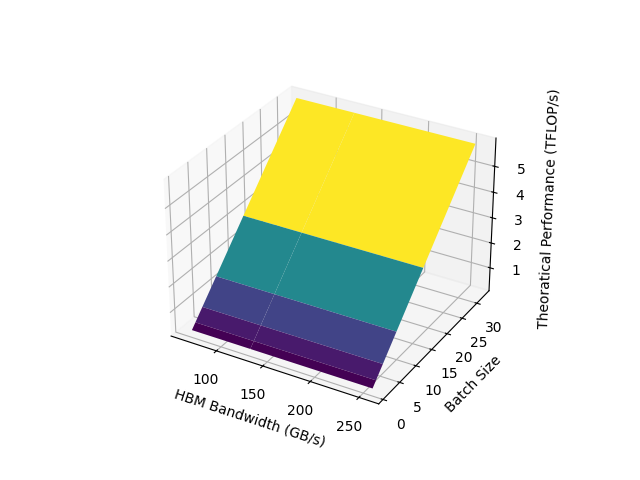
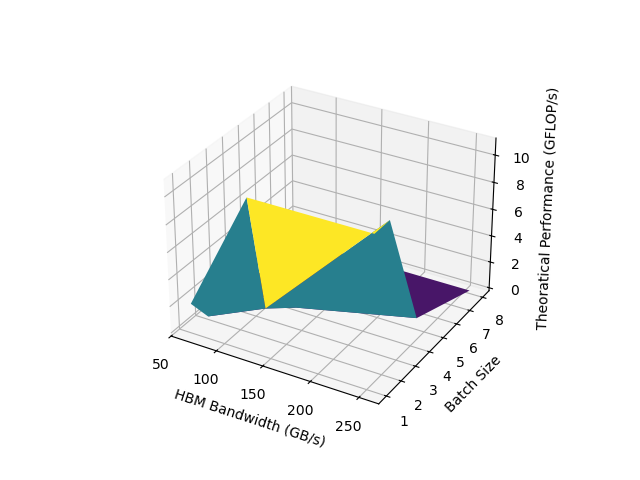
0304_updated_estimation

diff --git a/doc/performance_estimation.py b/doc/performance_estimation.py
@@ -5,17 +5,22 @@ import matplotlib.pyplot as plt
 from mpl_toolkits.mplot3d import Axes3D
 
 
+import math
+
 def find_max_x(const1, const2):
     """
     Finds the maximum power-of-2 integer x satisfying the inequality:
-    x^2 + x * const1 <= const2
+    x^2 * const1 + x * const1 <= const2
     
     :param const1: A given constant (real number)
     :param const2: A given constant (real number)
     :return: The maximum power-of-2 integer x satisfying the inequality
     """
-    # Solve the quadratic equation x^2 + const1*x - const2 = 0
-    a, b, c = 1, const1, -const2
+    if const1 <= 0:
+        return None  # Avoid invalid cases where const1 is non-positive
+    
+    # Solve the quadratic equation x^2 * const1 + x * const1 - const2 = 0
+    a, b, c = const1, const1, -const2
     
     # Compute the discriminant
     discriminant = b**2 - 4*a*c
@@ -24,8 +29,9 @@ def find_max_x(const1, const2):
         return None  # No real solutions exist
     
     # Compute the two roots
-    x1 = (-b + math.sqrt(discriminant)) / (2 * a)
-    x2 = (-b - math.sqrt(discriminant)) / (2 * a)
+    sqrt_discriminant = math.sqrt(discriminant)
+    x1 = (-b + sqrt_discriminant) / (2 * a)
+    x2 = (-b - sqrt_discriminant) / (2 * a)
     
     # The maximum integer satisfying the inequality is the floor of the positive root
     max_x = math.floor(max(x1, x2))
@@ -35,8 +41,9 @@ def find_max_x(const1, const2):
     
     return power_of_2_x
 
+
 class model_config:
-    def __init__(self, model_param_path, tile_size = 64, hbm_bandwidth = 256, sram_bandwidth = 256):
+    def __init__(self, model_param_path, TileSize = 64, hbm_bandwidth = 256, sram_bandwidth = 256):
         model_param = json.load(open(model_param_path))
         self.hidden_size = model_param["hidden_size"]
         self.num_attention_heads = model_param["num_attention_heads"]
@@ -48,7 +55,7 @@ class model_config:
         self.head_dim = self.hidden_size // self.num_attention_heads
         self.num_head_groups = self.num_attention_heads // self.num_key_value_heads
         self.vocab_size = model_param["vocab_size"]
-        self.Tile_Size = 64
+        TileSize = 64
         self.DataTypeSize = 4
         self.hbm_bandwidth = 256        # GigaByte per second
         self.theoratical_frequency = 10**9 # 1 GHz
@@ -56,60 +63,60 @@ class model_config:
         self.seq_len = 50
 
 
-    def rms_layer(self):
+    def rms_layer(self, TileSize):
         setting_inst_num = 5
         loop_inst_num = 7 + 7 
-        loop_num = self.hidden_size // self.Tile_Size 
+        loop_num = self.hidden_size // TileSize
         instruction_num = 0
         instruction_num += setting_inst_num
         instruction_num += loop_num * loop_inst_num
         return instruction_num
 
-    def projection(self):
+    def projection(self, TileSize):
         overall_inst_num = 0
     ##Q Projection
         # -- Projection
         setting_inst_num = 9
         mvm_inst_num = 13
-        loop_mvm_num = (self.hidden_size // self.Tile_Size) ** 2
+        loop_mvm_num = (self.hidden_size // TileSize) ** 2
         data_transfer_inst_num = 5
         # Load Sin and Cos
-        load_cos_sin_inst_num = 5 * (self.head_dim // self.Tile_Size)
+        load_cos_sin_inst_num = 5 * (self.head_dim // TileSize)
         # -- RoPE
         head_setting_inst = self.num_attention_heads * 4
-        loop_per_head_inst_num = 16 * (self.head_dim // self.Tile_Size) * self.num_attention_heads
+        loop_per_head_inst_num = 16 * (self.head_dim // TileSize) * self.num_attention_heads
         overall_inst_num += setting_inst_num + mvm_inst_num * loop_mvm_num + data_transfer_inst_num + load_cos_sin_inst_num + head_setting_inst + loop_per_head_inst_num
     ##K Projection
         # -- Projection
         setting_inst_num = 9
         mvm_inst_num = 13
-        loop_mvm_num = ((self.num_key_value_heads * self.head_dim) // self.Tile_Size) ** 2
+        loop_mvm_num = ((self.num_key_value_heads * self.head_dim) // TileSize) ** 2
         data_transfer_inst_num = 5
         # Load Sin and Cos
-        load_cos_sin_inst_num = 5 * (self.head_dim // self.Tile_Size)
+        load_cos_sin_inst_num = 5 * (self.head_dim // TileSize)
         # -- RoPE
         head_setting_inst = self.num_key_value_heads * 4
-        loop_per_head_inst_num = 16 * (self.head_dim // self.Tile_Size) * self.num_key_value_heads
+        loop_per_head_inst_num = 16 * (self.head_dim // TileSize) * self.num_key_value_heads
         overall_inst_num += setting_inst_num + mvm_inst_num * loop_mvm_num + data_transfer_inst_num + load_cos_sin_inst_num + head_setting_inst + loop_per_head_inst_num
     ## V Projection
         # -- Projection
         setting_inst_num = 9
         mvm_inst_num = 13
-        loop_mvm_num = ((self.num_key_value_heads * self.head_dim) // self.Tile_Size) ** 2
+        loop_mvm_num = ((self.num_key_value_heads * self.head_dim) // TileSize) ** 2
         data_transfer_inst_num = 5
         overall_inst_num += setting_inst_num + mvm_inst_num * loop_mvm_num + data_transfer_inst_num
         return overall_inst_num
 
-    def flash_attention(self):
+    def flash_attention(self, TileSize):
         overall_inst_num = 0
         # -- Attention
         q_heads = self.num_attention_heads
         settings_in_each_attention = 7
-        internel_Tc_Loop = self.seq_len // self.Tile_Size # Assuming 50 for s_kv
+        internel_Tc_Loop = self.seq_len // TileSize # Assuming 50 for s_kv
 
         # Internel Tc Loop
         # Q_KT Loop
-        Tile_Loop_per_head = self.head_dim // self.Tile_Size
+        Tile_Loop_per_head = self.head_dim // TileSize
         Q_KT_inst_num = 15 * Tile_Loop_per_head  + 7 * Tile_Loop_per_head # One for QKT another for Vector elementwise qk_scale
         # Row Max
         row_max_inst_num = 7 * Tile_Loop_per_head
@@ -128,106 +135,107 @@ class model_config:
         return overall_inst_num
 
 
-    def residual (self):
+    def residual (self, TileSize):
         overall_inst_num = 0
         # -- Residual
-        iteration = self.hidden_size // self.Tile_Size
+        iteration = self.hidden_size // TileSize
         overall_inst_num = 10 * iteration
         return overall_inst_num
 
-    def feed_forward(self):
+    def feed_forward(self, TileSize):
         overall_inst_num = 0
         # -- Feed Forward
         setting_inst_num = 9
         mvm_inst_num = 13
-        loop_mvm_num = (self.hidden_size * self.hidden_size) // (self.Tile_Size * self.Tile_Size)
+        loop_mvm_num = (self.hidden_size * self.hidden_size) // (TileSize * TileSize)
         data_transfer_inst_num = 5
         overall_inst_num = setting_inst_num + (mvm_inst_num + data_transfer_inst_num) * loop_mvm_num
         return overall_inst_num
 
-    def mlp(self):
+    def mlp(self, TileSize):
         overall_inst_num = 0
         # -- MLP
         setting_inst_num = 9
         mvm_inst_num = 13
-        loop_mvm_num = (self.hidden_size * self.intermediate_size) // (self.Tile_Size * self.Tile_Size)
+        loop_mvm_num = (self.hidden_size * self.intermediate_size) // (TileSize * TileSize)
         data_transfer_inst_num = 5
         overall_inst_num = setting_inst_num + (mvm_inst_num + data_transfer_inst_num) * loop_mvm_num
         return overall_inst_num
 
 
-    def compute_overall_inst(self):
+    def compute_overall_inst(self, TileSize):
         overall_inst_num = 0
         for i in range(self.num_hidden_layers):
-            overall_inst_num += self.rms_layer()
-            overall_inst_num += self.projection()
-            overall_inst_num += self.flash_attention()
-            overall_inst_num += self.residual()
-            overall_inst_num += self.rms_layer()
-            overall_inst_num += self.feed_forward()
-            overall_inst_num += self.residual()
-        overall_inst_num += self.rms_layer()
-        overall_inst_num += self.mlp()
+            overall_inst_num += self.rms_layer(TileSize)
+            overall_inst_num += self.projection(TileSize)
+            overall_inst_num += self.flash_attention(TileSize)
+            overall_inst_num += self.residual(TileSize)
+            overall_inst_num += self.rms_layer(TileSize)
+            overall_inst_num += self.feed_forward(TileSize)
+            overall_inst_num += self.residual(TileSize)
+        overall_inst_num += self.rms_layer(TileSize)
+        overall_inst_num += self.mlp(TileSize)
         # print("Overall instruction number: ", overall_inst_num)
         overall_exe_cycle = overall_inst_num * 3
         theoratical_execution_time = overall_exe_cycle / self.theoratical_frequency
         # print("Theoratical execution time: ", theoratical_execution_time)
         return overall_inst_num, theoratical_execution_time
     
-    def resource_utilization_estimation(self):
-        MVM_SRAM = 2 * self.Tile_Size * self.Tile_Size * self.DataTypeSize  
+    def resource_utilization_estimation(self, TileSize):
+        MVM_SRAM = 2 * TileSize * TileSize * self.DataTypeSize  
         print("MVM SRAM Utilization: ", MVM_SRAM  / 1024 / 8, "KB")
-        Scratchpad_SRAM = 4 * self.Tile_Size * self.DataTypeSize
+        Scratchpad_SRAM = 4 * TileSize * self.DataTypeSize
         print("Scratchpad SRAM Utilization: ", Scratchpad_SRAM / 1024 / 8, "KB")
         SRAM_Utilization = MVM_SRAM + Scratchpad_SRAM
         print("SRAM Utilization: ", SRAM_Utilization / 1024 / 8, "KB")
         return SRAM_Utilization
     
 
-    def matrix_mult_flop_in_overall_process(self):
-        max_flops_per_cycle = self.Tile_Size * self.Tile_Size * 2 * self.batch_size
+    def matrix_mult_flop_in_overall_process(self, TileSize):
+        max_flops_per_cycle = TileSize * TileSize * 2 * self.batch_size
         inst_num = 0
         # Q, K, V Projection
-        inst_num += 3 * (self.hidden_size // self.Tile_Size) ** 2
+        inst_num += 3 * (self.hidden_size // TileSize) ** 2
         # Flash Attention
-        inst_num += (self.head_dim // self.Tile_Size) * (self.seq_len // self.Tile_Size) * 2
+        inst_num += (self.head_dim // TileSize) * (self.seq_len // TileSize) * 2
         # MLP
-        inst_num += (self.hidden_size * self.intermediate_size) // (self.Tile_Size * self.Tile_Size)
+        inst_num += (self.hidden_size * self.intermediate_size) // (TileSize * TileSize)
 
         return (inst_num * max_flops_per_cycle * self.num_hidden_layers)
 
-    def vector_operation_flop_in_overall_process(self):
-        max_flops_per_cycle = self.Tile_Size * 2 * self.batch_size
+    def vector_operation_flop_in_overall_process(self, TileSize):
+        max_flops_per_cycle = TileSize * 2 * self.batch_size
         inst_num = 0
         # RMS
-        inst_num += 2 * (self.hidden_size // self.Tile_Size)
+        inst_num += 2 * (self.hidden_size // TileSize)
         # Q, K, V Projection
-        inst_num += 3 * (self.hidden_size // self.Tile_Size)
+        inst_num += 3 * (self.hidden_size // TileSize)
         # Flash Attention
-        inst_num += (self.head_dim // self.Tile_Size) * (self.seq_len // self.Tile_Size)
+        inst_num += (self.head_dim // TileSize) * (self.seq_len // TileSize)
         # Residual
-        inst_num += 2 * (self.hidden_size // self.Tile_Size)
+        inst_num += 2 * (self.hidden_size // TileSize)
         # Feed Forward
-        inst_num += 2 * (self.hidden_size // self.Tile_Size)
+        inst_num += 2 * (self.hidden_size // TileSize)
         # MLP
-        inst_num += 2 * (self.hidden_size // self.Tile_Size)
+        inst_num += 2 * (self.hidden_size // TileSize)
         return (inst_num * max_flops_per_cycle * self.num_hidden_layers)
     
-    def compute_theoratical_performance(self):
-        matrix_mult_flop = self.matrix_mult_flop_in_overall_process()
-        vector_operation_flop = self.vector_operation_flop_in_overall_process()
+    def compute_theoratical_performance(self, TileSize):
+        matrix_mult_flop = self.matrix_mult_flop_in_overall_process(TileSize)
+        vector_operation_flop = self.vector_operation_flop_in_overall_process(TileSize)
         total_flop = matrix_mult_flop + vector_operation_flop
-        mcycles = self.compute_overall_inst()[0] * 8
-        flops = ((total_flop // mcycles) * self.theoratical_frequency) / 10**12
-        print("Theoratical Performance: ", flops, "TFLOP/s")
+        mcycles = self.compute_overall_inst(TileSize)[0] * 8
+        print("Total FLOP: ", total_flop, "Total Instruction: ", mcycles)
+        flops = ((total_flop // mcycles) * self.theoratical_frequency) / 10**9
+        print("Theoratical Performance: ", flops, "GFLOP/s")
         return flops
     
 
-    def determine_max_tile_size(self, batch_size, hbm_bandwidth):
+    def determine_max_TileSize(self, batch_size, hbm_bandwidth):
         cycle_bandwidth = (hbm_bandwidth * 1024 * 1024 * 1024 * 8) / (self.DataTypeSize * self.theoratical_frequency)
-        max_tile_size = find_max_x(batch_size, cycle_bandwidth)
-        self.batch_size = batch_size
-        return max_tile_size
+        max_TileSize = find_max_x(batch_size, cycle_bandwidth)
+        print("batch size: ", batch_size, "HBM Bandwidth: ", hbm_bandwidth, "Max Tile Size: ", max_TileSize)
+        return max_TileSize
 
 
 
@@ -235,13 +243,13 @@ class model_config:
 if __name__ == "__main__":
     model = model_config("Model_Lib/llama-3.1-8b.json")
     # plot a graph, 
-    batch_size_selection = [1, 2, 4, 8, 16, 32]
+    batch_size_selection = [1, 2, 4, 8]
     hbm_bandwidth_selection = [64, 128, 256]
     flops = np.zeros((len(batch_size_selection), len(hbm_bandwidth_selection)))
     for j in range(len(hbm_bandwidth_selection)):
         for i in range(len(batch_size_selection)):      
-            model.determine_max_tile_size(batch_size_selection[i], hbm_bandwidth_selection[j])
-            flops[i][j] = model.compute_theoratical_performance()
+            max_TileSize = model.determine_max_TileSize(batch_size_selection[i], hbm_bandwidth_selection[j])
+            flops[i][j] = model.compute_theoratical_performance(max_TileSize)
 
 
     fig = plt.figure()
@@ -250,8 +258,8 @@ if __name__ == "__main__":
     ax.plot_surface(X, Y, flops, cmap='viridis')
     ax.set_xlabel('HBM Bandwidth (GB/s)')
     ax.set_ylabel('Batch Size')
-    ax.set_zlabel('Theoratical Performance (TFLOP/s)')
-    plt.savefig("performance_estimation.png")
+    ax.set_zlabel('Theoratical Performance (GFLOP/s)')
+    plt.show()
 
 
 
